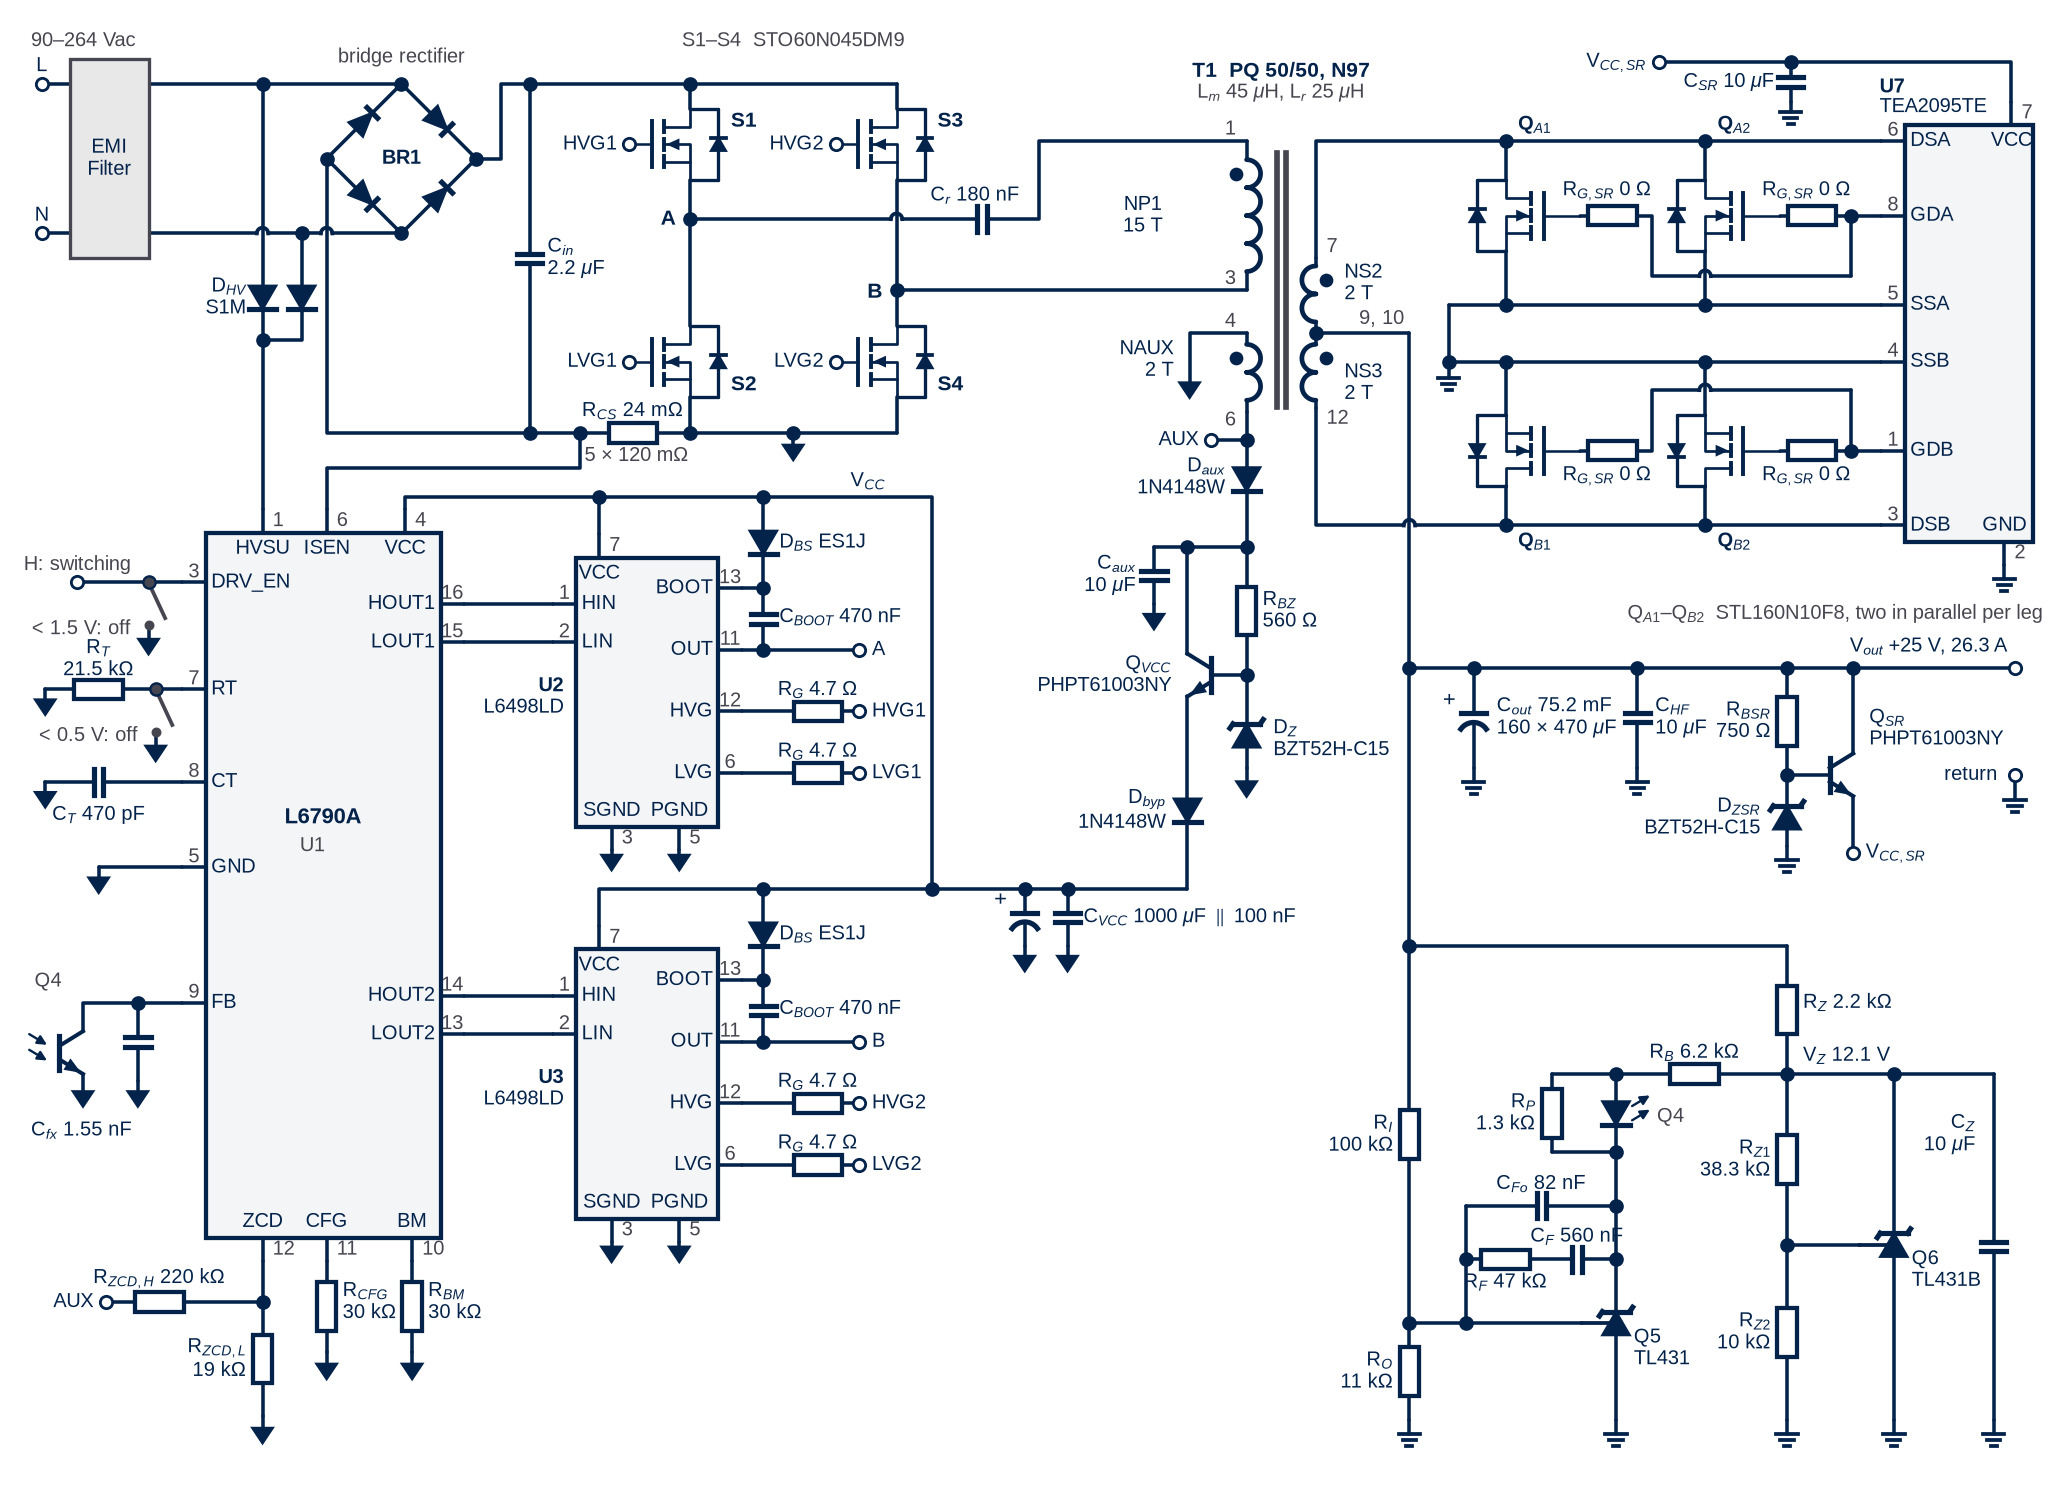
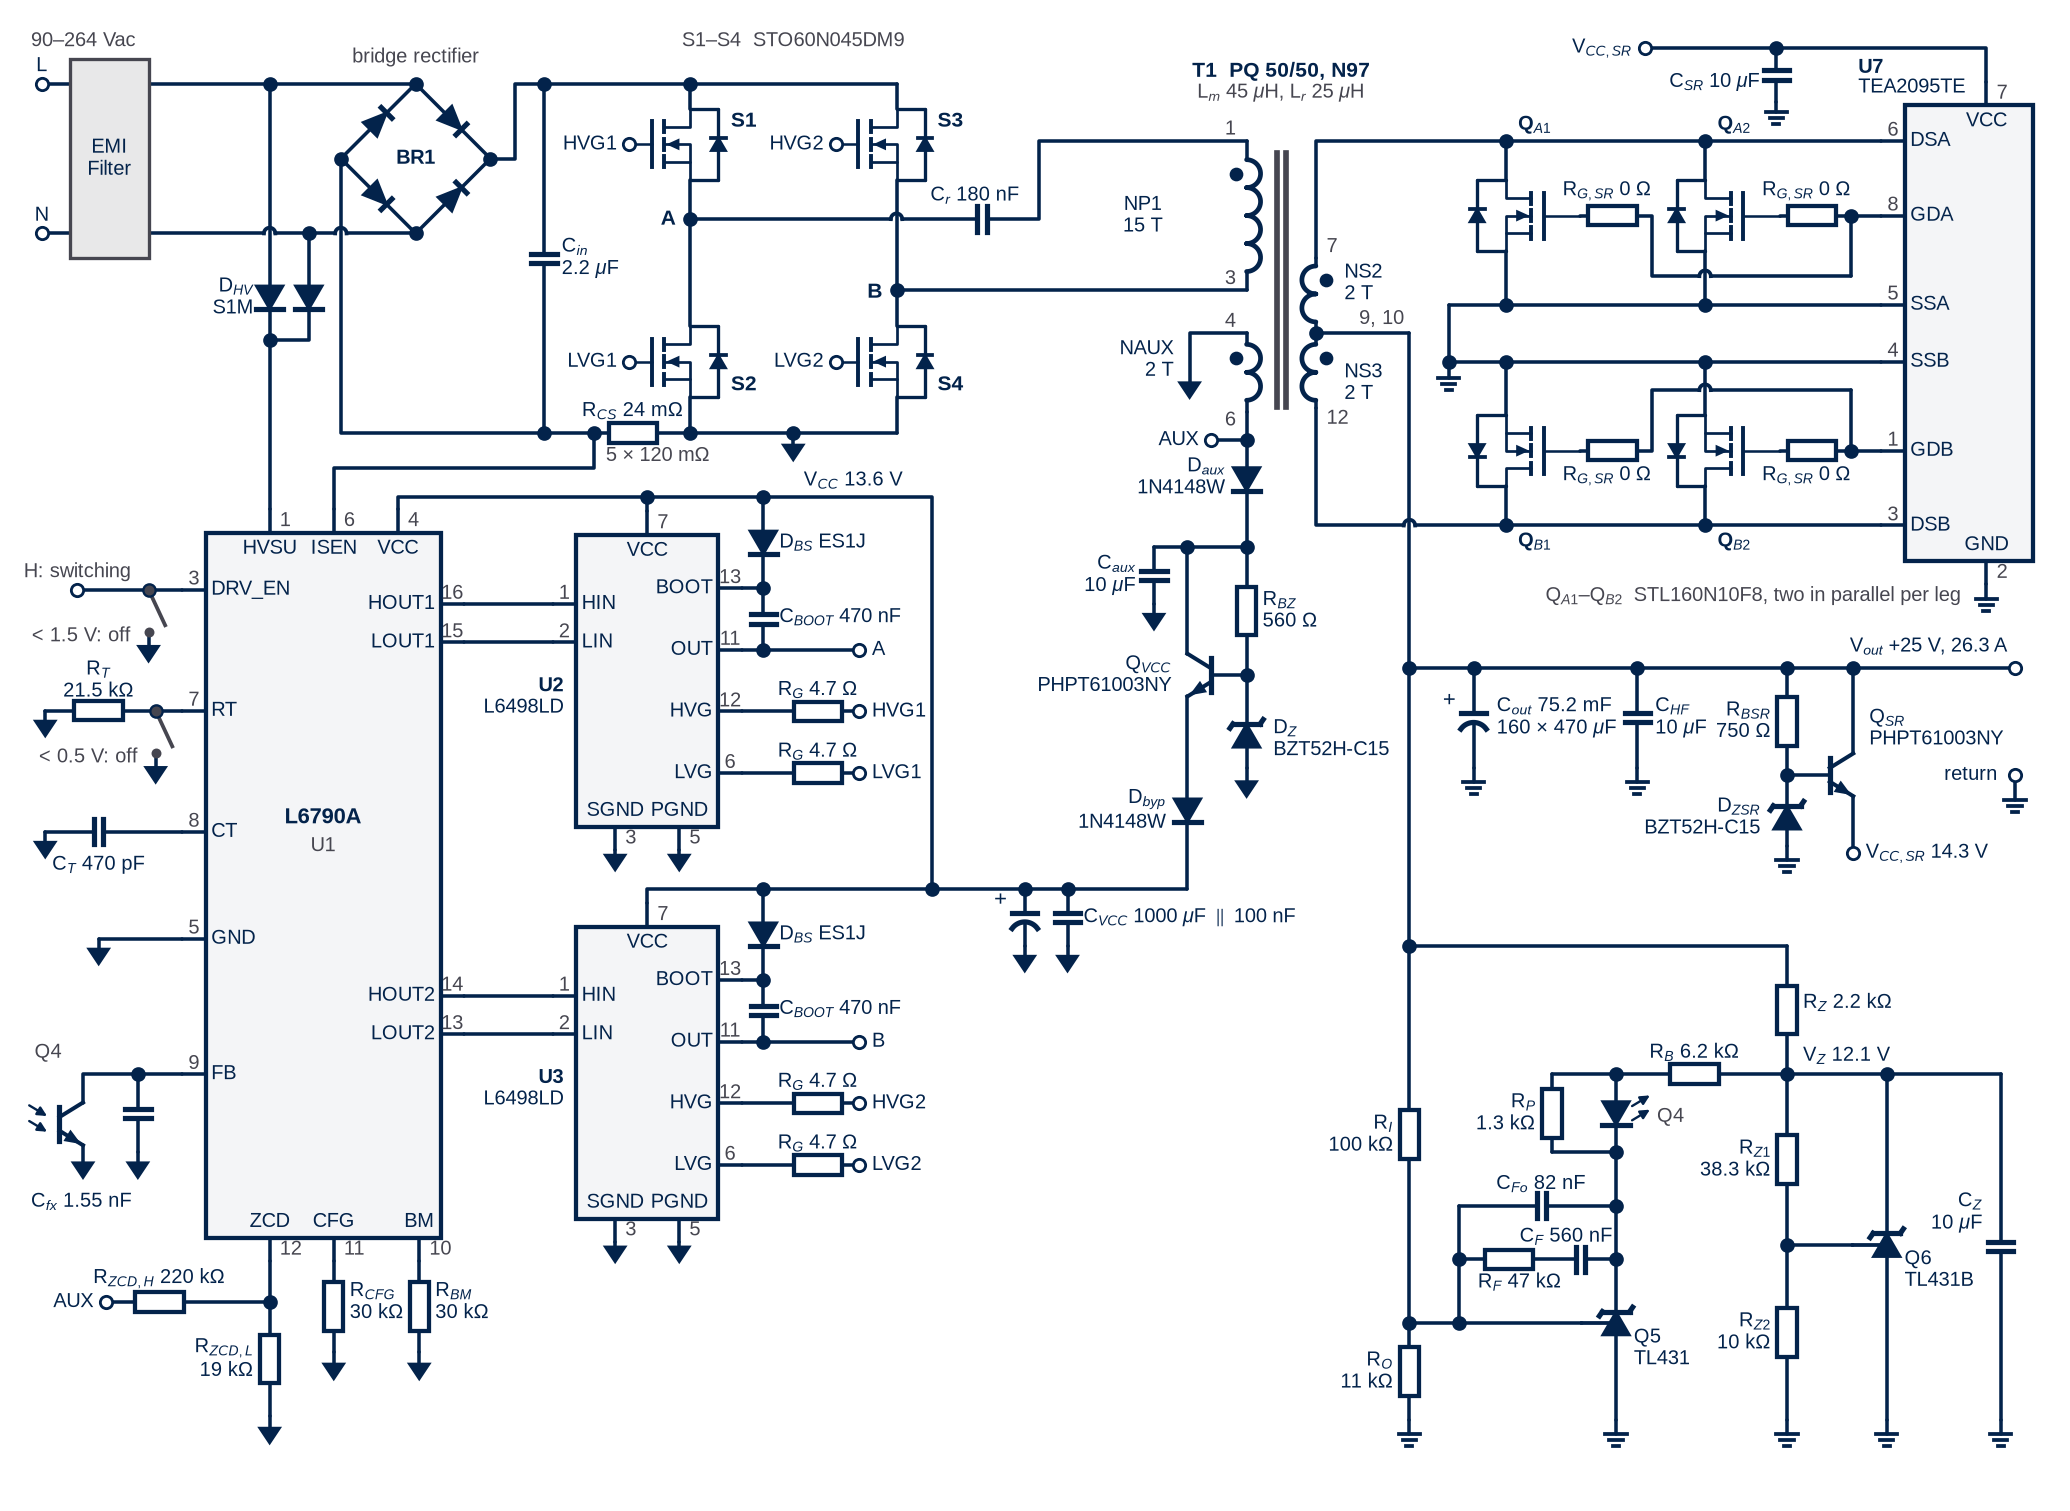
Round 84 (in progress): full schematic — U1 pins spread, supply pins centred on the boxes, rail voltages, SR caption under the MOSFETs, C_Z and R_F labels
Claude-Session: https://claude.ai/code/session_01L3H8Na8buSZY2uPpuuSkn7

diff --git a/Design Guide/generators/figs_ref.py b/Design Guide/generators/figs_ref.py
@@ -4476,8 +4476,8 @@ def an_full(save, foot):
     S.label(ax, 0.1, 40.6, '%.0f–%.0f Vac' % (V['Vacmin'], V['Vacmax']),
             size=SN, ha='left', color=GREY)
     S.box(ax, 2.3, 37.3, 2.2, 5.6, 'EMI\nFilter', size=SN)
-    XH1, XH2 = 6.6, 7.7                   # the two HVSU diodes
-    XBm, YBm, BH = 10.5, 37.3, 2.1        # BR1, a diamond: ac top and bottom
+    XH1, XH2 = 6.8, 7.9                   # the two HVSU diodes
+    XBm, YBm, BH = 10.9, 37.3, 2.1        # BR1, a diamond: ac top and bottom
     BT, BB = (XBm, YBm + BH), (XBm, YBm - BH)
     BM_, BP = (XBm - BH, YBm), (XBm + BH, YBm)
     S.wire(ax, [(3.4, YL), BT])
@@ -4499,11 +4499,11 @@ def an_full(save, foot):
     a2, k2 = S.diode(ax, XH2, 33.4, horiz=False, flip=True)
     S.wire(ax, [(XH1, YL), a1])
     S.wire(ax, [(XH2, YN), a2])
-    YJ, XHV = 32.2, 6.6                   # the join, and U1's HVSU column
+    YJ, XHV = 32.2, 6.8                   # the join, and U1's HVSU column
     S.wire(ax, [k2, (XH2, YJ), (XH1, YJ)])
     S.dot(ax, XH1, YJ)
     S.label(ax, XH1 - 0.45, 33.4, 'D$_{HV}$\nS1M', size=SN, ha='right')
-    XP, XCI, XM = 13.3, 14.1, 15.5
+    XP, XCI, XM = 13.7, 14.5, 15.9
     X1, X2 = 18.6, 24.4                   # the two bridge legs
     S.wire(ax, [BP, (XP, YBm), (XP, YL), (X2, YL)])
     S.wire(ax, [BM_, (BM_[0], YG), (X2, YG)])
@@ -4517,7 +4517,7 @@ def an_full(save, foot):
     ra, rb = S.res(ax, 17.0, YG)
     S.label(ax, 17.0, YG + 0.6, 'R$_{CS}$ %.0f m$\\Omega$' % _sv('R.CS'),
             size=SZ)
-    S.label(ax, 17.1, YG - 0.65, '%.0f × %.0f m$\\Omega$'
+    S.label(ax, 17.7, YG - 0.65, '%.0f × %.0f m$\\Omega$'
             % (_sv('N.RCS'), _sv('R.CS_single')), size=SN, color=GREY)
     S.dot(ax, 21.5, YG)
     pg(21.5, YG)
@@ -4607,17 +4607,17 @@ def an_full(save, foot):
 
     # ================================================= controller U1
     U1 = _ic(ax, 5.0, 7.0, 11.6, 26.8, 'L6790A',
-             [('T', XHV, 1, 'HVSU'), ('T', 8.4, 6, 'ISEN'),
-              ('T', 10.6, 4, 'VCC'),
+             [('T', XHV, 1, 'HVSU'), ('T', 8.6, 6, 'ISEN'),
+              ('T', 10.4, 4, 'VCC'),
               ('R', 24.8, 16, 'HOUT1'), ('R', 23.72, 15, 'LOUT1'),
               ('R', 13.8, 14, 'HOUT2'), ('R', 12.72, 13, 'LOUT2'),
-              ('B', XHV, 12, 'ZCD'), ('B', 8.4, 11, 'CFG'),
-              ('B', 10.8, 10, 'BM'),
-              ('L', 25.4, 3, 'DRV_EN'), ('L', 22.4, 7, 'RT'),
-              ('L', 19.8, 8, 'CT'), ('L', 17.4, 5, 'GND'),
-              ('L', 13.6, 9, 'FB')], ref=18.8, size=SN, psize=SN,
+              ('B', XHV, 12, 'ZCD'), ('B', 8.6, 11, 'CFG'),
+              ('B', 11.0, 10, 'BM'),
+              ('L', 25.2, 3, 'DRV_EN'), ('L', 21.8, 7, 'RT'),
+              ('L', 18.4, 8, 'CT'), ('L', 15.4, 5, 'GND'),
+              ('L', 11.6, 9, 'FB')], ref=18.8, size=SN, psize=SN,
              tsize=9.4, tpad=0.45)
-    S.label(ax, 8.0, 18.0, 'U1', size=SN, color=GREY)
+    S.label(ax, 8.3, 18.0, 'U1', size=SN, color=GREY)
     S.wire(ax, [k1, U1['HVSU']])
     YIS = 28.6
     S.wire(ax, [(XM, YG), (XM, YIS), (U1['ISEN'][0], YIS), U1['ISEN']])
@@ -4693,15 +4693,16 @@ def an_full(save, foot):
 
     # ================================================= drivers U2, U3
     YV, XO, YO = 27.8, 25.4, 16.8
-    W_, H_ = 4.0, 7.56                     # 0.9 x the first drawing's width,
-    #                                        1.2 x its height and pin pitch
+    W_, H_ = 4.0, 8.2                      # 0.9 x the first drawing's width,
+    #                                        1.2 x its pin pitch, headroom
+    #                                        for the VCC pin's name
     XD = 15.4                              # everything hung off the box
 
     def driver(x0, y0, nm, leg):
         u = _ic(ax, x0, y0, x0 + W_, y0 + H_, 'L6498LD',
                 [('L', y0 + 6.26, 1, 'HIN'), ('L', y0 + 5.18, 2, 'LIN'),
-                 ('T', x0 + 0.65, 7, 'VCC'),
-                 ('B', x0 + 1.0, 3, 'SGND'), ('B', x0 + 2.9, 5, 'PGND'),
+                 ('T', x0 + 2.0, 7, 'VCC'),
+                 ('B', x0 + 1.1, 3, 'SGND'), ('B', x0 + 2.9, 5, 'PGND'),
                  ('R', y0 + 6.70, 13, 'BOOT'), ('R', y0 + 4.97, 11, 'OUT'),
                  ('R', y0 + 3.24, 12, 'HVG'), ('R', y0 + 1.51, 6, 'LVG')],
                 size=SN, psize=SN, tpad=0.45, title=False)
@@ -4745,7 +4746,7 @@ def an_full(save, foot):
     S.wire(ax, [u2['VCC'], (u2['VCC'][0], YV)])
     S.dot(ax, u2['VCC'][0], YV)
     S.wire(ax, [u3['VCC'], (u3['VCC'][0], YO), (XO, YO)])
-    S.label(ax, 23.6, YV + 0.45, 'V$_{CC}$', size=SZ)
+    S.label(ax, 23.2, YV + 0.45, 'V$_{CC}$ %.1f V' % _sv('V.CC_reg'), size=SZ)
     for xb_, ytop, by_ in ((xb2, YV, by2), (xb3, YO, by3)):
         yd = (ytop + by_) / 2.0
         da, dk = S.diode(ax, xb_, yd, horiz=False, flip=True)
@@ -4818,23 +4819,23 @@ def an_full(save, foot):
     xr1, xr2 = XQ1 + MGS + 0.9, XQ2 + MGS + 0.9
     XG = xr2 + 1.1                         # where the gate run splits
     TX0, TX1 = XG + 1.5, XG + 5.1
-    TY0, TY1 = YDB - 0.45, YDA + 0.45
+    TY0, TY1 = YDB - 1.0, YDA + 1.0        # room for the supply pins' names
     c = _ic(ax, TX0, TY0, TX1, TY1, 'TEA2095TE',
             [('L', YDA, 6, 'DSA'), ('L', YCA_, 8, 'GDA'),
              ('L', YSA, 5, 'SSA'), ('L', YSB, 4, 'SSB'),
              ('L', YCB, 1, 'GDB'), ('L', YDB, 3, 'DSB'),
-             ('T', TX1 - 0.6, 7, 'VCC'), ('B', TX1 - 0.8, 2, 'GND')],
+             ('T', TX0 + 2.3, 7, 'VCC'), ('B', TX0 + 2.3, 2, 'GND')],
             size=SN, psize=SN, tpad=0.45, title=False)
-    S.label(ax, TX0 - 0.7, TY1 + 1.05, 'U7', size=SN, weight='bold', ha='left')
-    S.label(ax, TX0 - 0.7, TY1 + 0.5, 'TEA2095TE', size=SN, ha='left')
+    S.label(ax, TX0 - 1.3, TY1 + 1.05, 'U7', size=SN, weight='bold', ha='left')
+    S.label(ax, TX0 - 1.3, TY1 + 0.5, 'TEA2095TE', size=SN, ha='left')
     gx_, gy_ = c['GND']
     S.wire(ax, [(gx_, gy_), (gx_, gy_ - 0.4)])
     sg(gx_, gy_ - 0.4, 0.0)
     #  VCC: up from the top pin, left along the top edge of the page to the
     #  flag, C_SR hanging off that run
     vx, vy = c['VCC']
-    YVS = 40.0
-    XSR, XFL = TX0 - 3.2, XG - 5.4
+    YVS = 40.4
+    XSR, XFL = TX0 - 3.6, XG - 5.8
     S.wire(ax, [(vx, vy), (vx, YVS), (XFL, YVS)])
     S.dot(ax, XSR, YVS)
     vcap(XSR, YVS, 38.9)
@@ -4893,7 +4894,7 @@ def an_full(save, foot):
     S.wire(ax, [s12, (xs, YDB), (XV - R, YDB)])
     X.hop(ax, XV, YDB, r=R)
     S.wire(ax, [(XV + R, YDB), (XQ2, YDB)])
-    S.label(ax, 56.6, 24.5, 'Q$_{A1}$–Q$_{B2}$  STL160N10F8, two in parallel '
+    S.label(ax, TX0 + 1.6, 25.0, 'Q$_{A1}$–Q$_{B2}$  STL160N10F8, two in parallel '
             'per leg', size=SN, color=GREY, ha='right')
 
     # ================================================= output bank
@@ -4934,7 +4935,7 @@ def an_full(save, foot):
     S.label(ax, XRB - 0.75, 18.8, 'D$_{ZSR}$\nBZT52H-C15', size=SN,
             ha='right')
     S.wire(ax, [eq_, (eq_[0], 17.8)])
-    flag(eq_[0], 17.8, 'V$_{CC,SR}$')
+    flag(eq_[0], 17.8, 'V$_{CC,SR}$ %.1f V' % _sv('V.SR'))
     S.label(ax, eq_[0] + 0.45, 21.3, 'Q$_{SR}$\nPHPT61003NY', size=SN,
             ha='left')
 
@@ -4950,7 +4951,7 @@ def an_full(save, foot):
     S.dot(ax, XRI, YREF)
     XK = 44.6
     ta, tc, tr = _tl431(ax, XK, YREF)
-    XL_, YF1, YF2 = 40.4, 7.9, 6.4
+    XL_, YF1, YF2 = 40.2, 7.9, 6.4
     S.wire(ax, [(XRI, YREF), tr])
     S.dot(ax, XL_, YREF)
     S.wire(ax, [ta, (XK, YGR)])
@@ -4962,13 +4963,13 @@ def an_full(save, foot):
     S.wire(ax, [(XL_, YF1), ca])
     S.wire(ax, [cb, (XK, YF1)])
     S.label(ax, 42.5, YF1 + 0.6, 'C$_{Fo}$ ' + _c(_sv('C.Fo')), size=SZ)
-    ra, rb = S.res(ax, 41.5, YF2)
-    ca, cb = S.cap(ax, 43.5, YF2)
+    ra, rb = S.res(ax, 41.6, YF2)
+    ca, cb = S.cap(ax, 43.6, YF2)
     S.wire(ax, [(XL_, YF2), ra])
     S.wire(ax, [rb, ca])
     S.wire(ax, [cb, (XK, YF2)])
-    S.label(ax, 41.5, YF2 - 0.65, 'R$_F$ ' + _r(_sv('R.F') * 1e3), size=SZ)
-    S.label(ax, 43.5, YF2 + 0.62, 'C$_F$ ' + _c(_sv('C.F')), size=SZ)
+    S.label(ax, 41.9, YF2 - 0.65, 'R$_F$ ' + _r(_sv('R.F') * 1e3), size=SZ)
+    S.label(ax, 43.2, YF2 + 0.62, 'C$_F$ ' + _c(_sv('C.F')), size=SZ)
     YLC, YLA = 9.4, 11.6
     S.wire(ax, [tc, (XK, YLC)])
     S.dot(ax, XK, YF1)
@@ -4991,7 +4992,7 @@ def an_full(save, foot):
     S.wire(ax, [(XK, YLC), (XPr, YLC)])
     vres(XPr, YLA, YLC, 'R$_P$\n' + _r(_sv('R.P') * 1e3), side='l')
     # the LED rail V_Z: R_Z from V_out, Q6 as a shunt regulator (16.1b)
-    XRB_, XRZ_, XU6, XCZ = 46.8, 49.4, 52.4, 55.2
+    XRB_, XRZ_, XU6, XCZ = 46.8, 49.4, 52.2, 55.4
     XZD = XRZ_                             # R_Z1 straight under R_Z
     S.wire(ax, [(XV, YT), (XRZ_, YT)])
     ra, rb = S.res(ax, XRB_, YLA)
@@ -5014,7 +5015,7 @@ def an_full(save, foot):
     S.wire(ax, [ua, (XU6, YGR)])
     sg(XU6, YGR, 0.4)
     S.label(ax, XU6 + 0.5, YRZ - 0.7, 'Q6\nTL431B', size=SN, ha='left')
-    vcap(XCZ, YLA, YGR, 'C$_Z$\n' + _c(_sv('C.Z') * 1e3), side='l', yl=9.9)
+    vcap(XCZ, YLA, YGR, 'C$_Z$\n' + _c(_sv('C.Z') * 1e3), side='l', yl=7.7)
     sg(XCZ, YGR, 0.4)
     save(fig, 'an_full')
 
